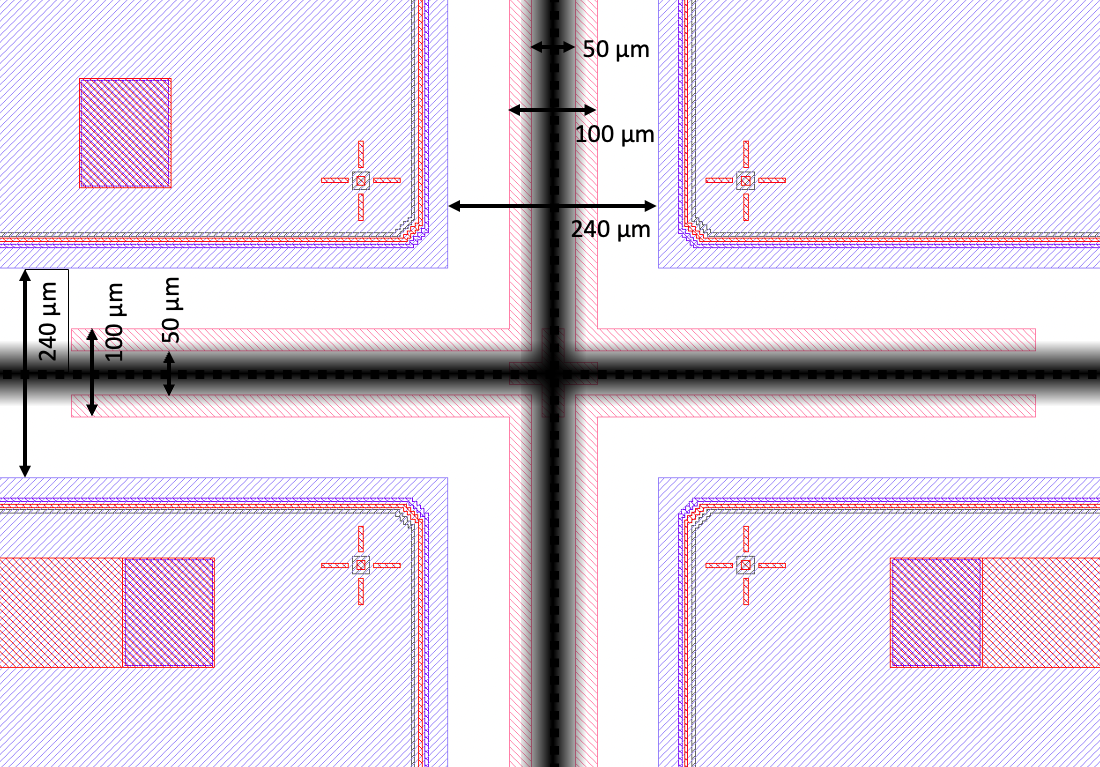
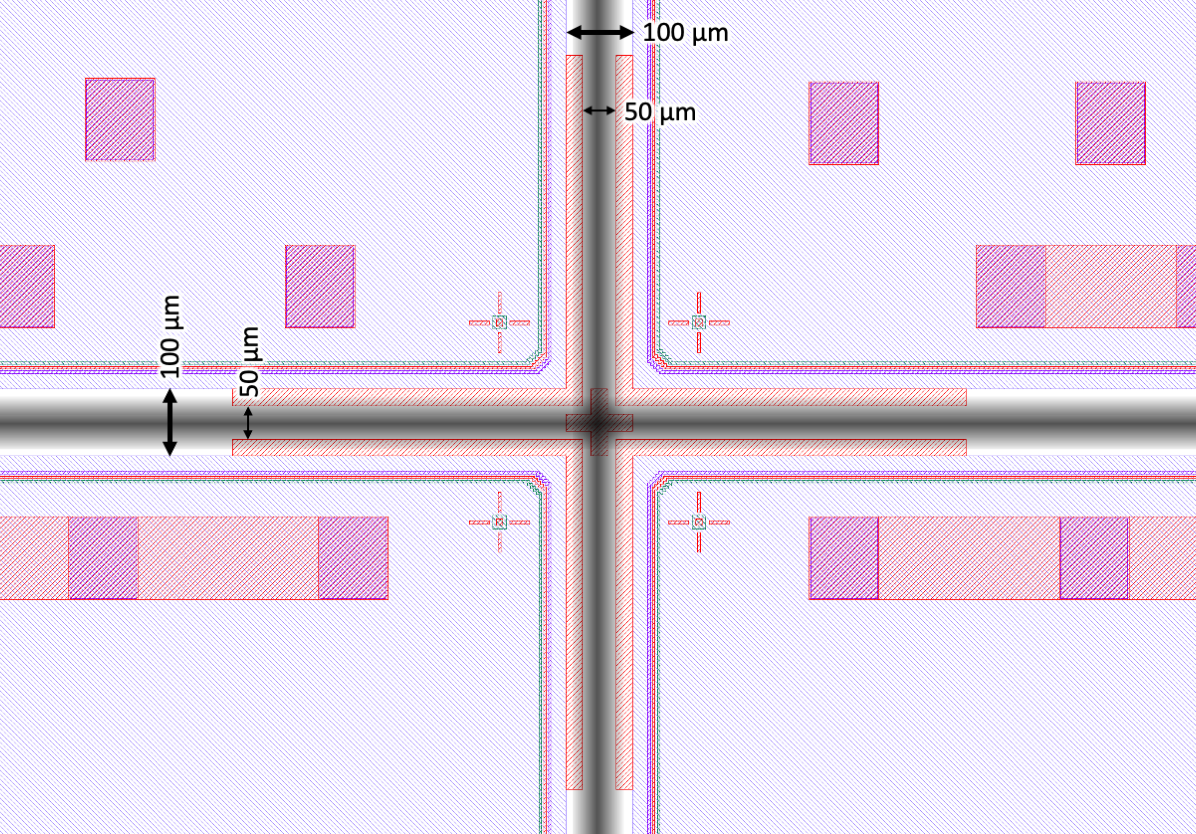
Updating ASIC size

diff --git a/content/en/docs/03_detector_assembly/02_Test_assembly.md b/content/en/docs/03_detector_assembly/02_Test_assembly.md
@@ -9,10 +9,10 @@ weight: 2
 Some possible options for the orientation of the chips is shown in the image below.
 <img src="../ASIC-FLEX_orientation.png" width="100%">
 
-In option A all chips have the same orientation ((digital) periphery to bottom).
-<br>Option B has chips #2 and #3 rotated 180 degrees, possibily easing the connetcion between chips #1 and #2 of the signals in chain.
-<br>Option C has chips #1 and #2 rotated 180 degrees, so all chips has their digital periphery closer to the top/bottom edges of the FPC, where decoupling capacitors and other passive components of the FPC are hosted.
-<br>Option D is the oposite as option C, having the digital periphery of all chips the furthest from the decoupling capacitors but offering the shortest distance for the chip-to-chip signals.
+In option **A** all chips have the same orientation ((digital) periphery to bottom).
+<br>Option **B** has chips #2 and #3 rotated 180 degrees, possibily easing the connetcion between chips #1 and #2 of the signals in chain.
+<br>Option **C** has chips #1 and #2 rotated 180 degrees, so all chips has their digital periphery closer to the top/bottom edges of the FPC, where decoupling capacitors and other passive components of the FPC are hosted.
+<br>Option **D** is the oposite as option C, having the digital periphery of all chips the furthest from the decoupling capacitors but offering the shortest distance for the chip-to-chip signals.
 
 As the chips has the HV connection pads in all of their 4 edges, independent of the chip's orientation it will be always possible to have the HV line routed from the HV tail towards the center of the flex, allowing to HV bias all 4 chips with the shortest path.
 
@@ -44,7 +44,7 @@ Considering the 100µPET final ASIC IO pad numbering, the structures on the test
 
 ## Test-chip size
 
-The test-chip is designed using the original 100µPET ASIC design (using the top metal and passivation layout), and its position on the test-wafer follows the same positioning as the final 100µPET wafer, with 240 µm of silicon margin between devices. </br> 
+The test-chip is designed using the original 100µPET ASIC design (using the top metal and passivation layout), and its position on the test-wafer follows the same positioning as the final 100µPET wafer, with 100 µm of silicon margin between devices. </br> 
 <div style="display: flex; justify-content: space-between; align-items: flex-start;">
    <div style="text-align: center; flex: 0 0 45%; margin: 0px;">
    		<img src="../test-wafer.png" alt="Image 1" width="72%" style="border: 0px solid black;">
@@ -60,7 +60,7 @@ The test-chip is designed using the original 100µPET ASIC design (using the top
    </div>
 </div>
 
-Therefore, as discussed in the *ASIC specifications -> ASIC size* section, the size of the test-chip after dicing is expected to be 23027.8 µm x 30426 µm minus the cut-width (illustrated as the black shaded bands in the right picture above).
+Therefore, as discussed in the *ASIC specifications -> ASIC size* section, the size of the test-chip after dicing is expected to be 22887.8 µm x 30286 µm **minus the cut-width** (illustrated as the black shaded bands in the right picture above).
 
 From our experience using the Femto second laser available at FCBG-NMP, the street reduction due to the cut width is < 50 µm, with no visible change (i.e. up to 10 µm) along the diced edge. A few pictures below illustrates the chip after dicing.
 
@@ -85,5 +85,21 @@ From our experience using the Femto second laser available at FCBG-NMP, the stre
    </div>
 </div></br>
 
-Therefore, the expected dimensions of the 100µPET test-chip, after dicing, is **22977.8 µm x 30376 µm**.
-</br>
+Therefore, the expected dimensions of the 100µPET test-chip, after dicing, is **22837.8 µm x 30236 µm**.
+
+### Test-wafer alignment marks
+The process flow for the production of our test-wafer will be uploaded soon. 
+There are 6 alignment marks over the wafer, as shown in the image below, that are used to align the multiple photolitography steps between each other.
+
+<img src="../test-wafer-alignment-marks.png" width="80%">
+
+The positons of the marks in absolute coordinates, having (0,0) in the center of the wafer, are:
+
+| # Alignment mark | X [µm] | Y [µm] |
+|:-----------------|:-------|:-------|
+| 1                | 24000  | 36000  |
+| 2                | 33000  | 18000  |
+| 3                | 33000  | -18000 |
+| 4                | -24000 | -36000 |
+| 5                | -33000 | -18000 |
+| 6                | -33000 | 18000  |

diff --git a/content/en/docs/02_ASIC_development/02_ASIC_size.md b/content/en/docs/02_ASIC_development/02_ASIC_size.md
@@ -7,8 +7,18 @@ weight: 2
 
 The size of the final (diced) 100µPET chip, will depend on the dicing technique used.</br>
 The chip dimension is **22787.8 µm x 30186 µm**. </br>
-The gap between neighbouring chips is **100 µm**. </br>
-The dicing will happen in the midle of such gap, therefore there is extra 50 µm of silicon on each of the four edges of the chip, summing up to **22887.8 µm x 30286 µm**.
+The gap between neighbouring chips in the same reticle is **100 µm** (see image below).
+
+<img src="../wafer_reticle.png" width="70%">
+
+The dicing will happen in the midle of such gap, therefore there is extra 50 µm of silicon on each of the four edges of the chip, summing up to **22887.8 µm x 30286 µm**./br>
+The final size of the ASIC must consider the dicing street reduction from the chosen dicing technique.
+
+{{% alert title="Note" color="warning" %}}
+⚠ **To be confirmed: Original plan is to use <a href="https://www.dicing-grinding.com/services/laser/?gclid=EAIaIQobChMIvrPii7eRggMVXDgGAB0QkQSTEAAYASAAEgKNwPD_BwE">Disco's stealth dicing</a>.**
+{{% /alert %}}
 
 If, for example, 50 µm of silicon are removed during the dicing, the final dimension of the chip to be bonded will be 22837.8 µm x 30236 µm. </br>
 When using the Femto second laser WS-Turret MM200-USP (a Carbide CB5 femto laser source with maximum output power of 6W and tunable pulse duration between 290 fs and 20 ps and 1 μm stage resolution), available at FCBG-NMP, the amount of silicon removed was < 50 µm with no visible change (i.e. up to 10 µm) along the diced edge. More is discussed in the assembly prototype section.
+
+

diff --git a/content/en/docs/02_ASIC_development/_index.md b/content/en/docs/02_ASIC_development/_index.md
@@ -11,7 +11,7 @@ This section aims to list the specifications of the 100µPET scanner.
 <img src="plan.png" width="70%" alt="Image 3">
 
 {{% alert title="Note" color="warning" %}}
-⚠ **submission booked for October 24th**
+✅**ASIC submited on October 24th**
 {{% /alert %}}
 
 | Main features                     |                                |
